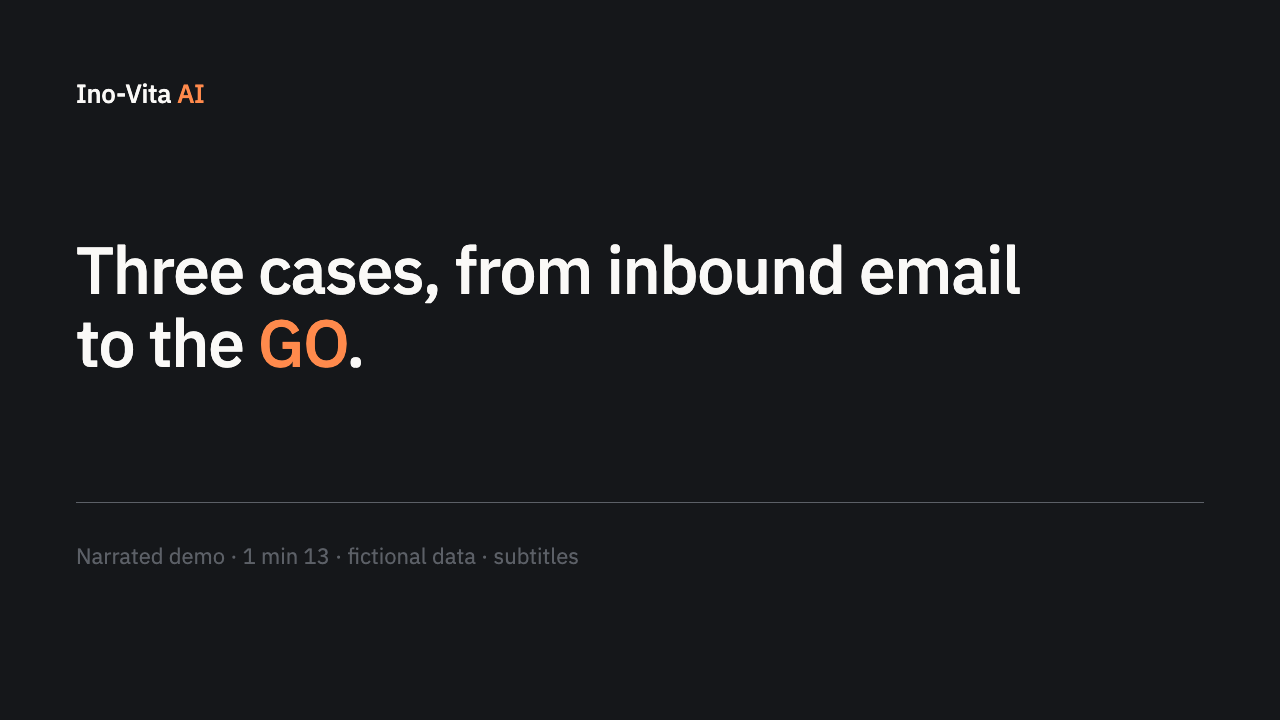
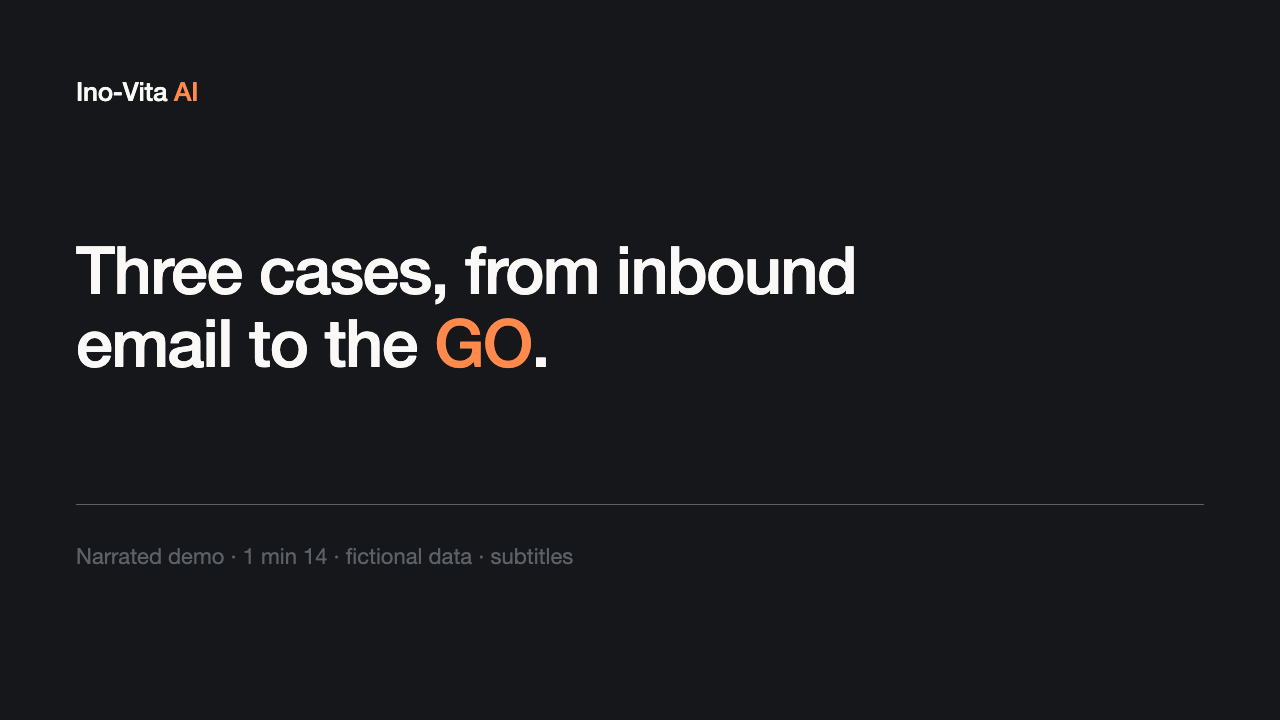
Video en premier sur l'accueil FR et EN, plus balisage de partage
Accueil : la demo devient le premier element sous le <h1> (lecteur natif,
poster, preload=metadata, playsinline, sous-titres .vtt actifs par defaut,
controls). Les 3 cas chiffres gardent leurs chiffres et passent a une ligne
d'accroche; le cas 3 nomme desormais le total de 92 factures d'ou sortent les
38 / 3 / 1 / 50. Le lien « Un appel de 30 minutes » est ajoute au hero et au
bloc contact (mailto tant que le lien de prise de rendez-vous n'est pas
disponible). /demo et /en/demo restent en place comme page dediee.

Referencement : hreflang fr / en / x-default, canonical, meta descriptions
reecrites, og:video vers le MP4, og:image:alt, JSON-LD Organization +
VideoObject (name, description, thumbnailUrl, uploadDate 2026-09-03, duration
PT1M11S / PT1M14S, contentUrl, embedUrl), sitemap lastmod 2026-09-10.

Duree anglaise corrigee de « 1 min 13 » a « 1 min 14 » : la piste mesure
73,84 s, arrondie a la seconde la plus proche comme le FR (71,32 s = 1 min 11).
Le poster anglais est regenere avec la meme valeur.

Claude-Session: https://claude.ai/code/session_01AX8cs5YUmsBYwzm9ntfcYv

diff --git a/index.html b/index.html
@@ -4,31 +4,37 @@
 <meta charset="utf-8">
 <meta name="viewport" content="width=device-width, initial-scale=1">
 <title>Ino-Vita AI — agents IA gouvernés pour la construction</title>
-<meta name="description" content="Des agents IA qui lisent vos courriels, contrats, chantiers et comptes, préparent la décision, et s'arrêtent à votre GO.">
-<meta name="site-version" content="puriste-2026-09-03">
+<meta name="description" content="Des agents IA qui lisent vos courriels, contrats, chantiers et comptes, chiffrent la décision et s'arrêtent à votre GO. Démo commentée de 1 min 11.">
+<meta name="site-version" content="video-2026-09-10">
 <meta name="theme-color" content="#faf9f7" media="(prefers-color-scheme: light)">
 <meta name="theme-color" content="#0e1013" media="(prefers-color-scheme: dark)">
 <link rel="canonical" href="https://ino-vita.ai/">
-<link rel="alternate" hreflang="en" href="https://ino-vita.ai/en/">
 <link rel="alternate" hreflang="fr" href="https://ino-vita.ai/">
+<link rel="alternate" hreflang="en" href="https://ino-vita.ai/en/">
+<link rel="alternate" hreflang="x-default" href="https://ino-vita.ai/">
 <meta property="og:type" content="website">
 <meta property="og:site_name" content="Ino-Vita AI">
 <meta property="og:locale" content="fr_CA">
 <meta property="og:title" content="Ino-Vita AI — agents IA gouvernés pour la construction">
-<meta property="og:description" content="Des agents IA qui lisent vos courriels, contrats, chantiers et comptes, préparent la décision, et s'arrêtent à votre GO.">
+<meta property="og:description" content="Des agents IA qui lisent vos courriels, contrats, chantiers et comptes, chiffrent la décision et s'arrêtent à votre GO. Démo commentée de 1 min 11.">
 <meta property="og:url" content="https://ino-vita.ai/">
 <meta property="og:image" content="https://ino-vita.ai/og.png">
 <meta property="og:image:width" content="1200">
 <meta property="og:image:height" content="630">
+<meta property="og:image:alt" content="Ino-Vita AI">
+<meta property="og:video" content="https://ino-vita.ai/demo/video/demo-ino-vita-ai-v3-fr-2026-09-03.mp4">
+<meta property="og:video:secure_url" content="https://ino-vita.ai/demo/video/demo-ino-vita-ai-v3-fr-2026-09-03.mp4">
+<meta property="og:video:type" content="video/mp4">
+<meta property="og:video:width" content="1280">
+<meta property="og:video:height" content="720">
 <meta name="twitter:card" content="summary_large_image">
 <meta name="twitter:title" content="Ino-Vita AI — agents IA gouvernés pour la construction">
-<meta name="twitter:description" content="Des agents IA qui lisent vos courriels, contrats, chantiers et comptes, préparent la décision, et s'arrêtent à votre GO.">
+<meta name="twitter:description" content="Des agents IA qui lisent vos courriels, contrats, chantiers et comptes, chiffrent la décision et s'arrêtent à votre GO. Démo commentée de 1 min 11.">
 <meta name="twitter:image" content="https://ino-vita.ai/og.png">
 <link rel="icon" href="/favicon.svg" type="image/svg+xml">
-<link rel="preconnect" href="https://fonts.googleapis.com">
-<link rel="preconnect" href="https://fonts.gstatic.com" crossorigin>
-<link rel="stylesheet" href="https://fonts.googleapis.com/css2?family=IBM+Plex+Sans:wght@400;500&display=swap">
+<link rel="preload" href="/fonts/ibm-plex-sans-latin.woff2" as="font" type="font/woff2" crossorigin>
 <link rel="stylesheet" href="/style.css">
+<script type="application/ld+json">{"@context":"https://schema.org","@graph":[{"@type":"Organization","@id":"https://ino-vita.ai/#organization","name":"Ino-Vita AI","url":"https://ino-vita.ai/","logo":"https://ino-vita.ai/logo.svg","image":"https://ino-vita.ai/og.png","email":"ai@ino-vita.com","parentOrganization":{"@type":"Organization","name":"Groupe GIV"},"address":{"@type":"PostalAddress","addressLocality":"Montréal","addressRegion":"QC","addressCountry":"CA"},"areaServed":{"@type":"AdministrativeArea","name":"Québec, Canada"},"description":"Agents IA gouvernés pour entrepreneurs en construction, développés par Groupe GIV à Montréal."},{"@type":"VideoObject","@id":"https://ino-vita.ai/#video","name":"Démo Ino-Vita AI — trois cas, du courriel reçu jusqu'au GO","description":"Vidéo commentée de 1 min 11 : un extra contesté de 48 350 $, un décompte client de 412 600 $ et 92 factures fournisseurs, analysés jusqu'au GO humain. Données fictives.","thumbnailUrl":"https://ino-vita.ai/demo/poster-fr.png","uploadDate":"2026-09-03","duration":"PT1M11S","contentUrl":"https://ino-vita.ai/demo/video/demo-ino-vita-ai-v3-fr-2026-09-03.mp4","embedUrl":"https://ino-vita.ai/demo/","inLanguage":"fr-CA","isFamilyFriendly":true,"publisher":{"@id":"https://ino-vita.ai/#organization"}}]}</script>
 </head>
 <body>
 <a class="skip u" href="#main">Aller au contenu</a>
@@ -43,9 +49,19 @@
   <section class="hero">
     <div class="wrap stack-lg">
       <h1>Des agents IA qui lisent vos courriels, contrats, chantiers et comptes, préparent la décision, et s'arrêtent à votre <span class="accent">GO</span>.</h1>
+      <div class="player">
+        <video controls preload="metadata" playsinline width="1280" height="720"
+               poster="/demo/poster-fr.png" aria-label="Vidéo de démonstration Ino-Vita AI : trois cas, 1 minute 11, commentée, sous-titrée">
+          <source src="/demo/video/demo-ino-vita-ai-v3-fr-2026-09-03.mp4" type="video/mp4">
+          <source src="/demo/video/demo-ino-vita-ai-v3-fr-2026-09-03.webm" type="video/webm">
+          <track kind="subtitles" src="/demo/video/demo-ino-vita-ai-v3-fr-2026-09-03.vtt" srclang="fr" label="Français" default>
+          Votre navigateur ne lit pas la vidéo intégrée — <a class="u" href="/demo/video/demo-ino-vita-ai-v3-fr-2026-09-03.mp4">Télécharger la vidéo (MP4)</a>.
+        </video>
+      </div>
+      <p class="small muted measure">Démo de 1 min 11, avec son et sous-titres. Données fictives, aucun système réel connecté.</p>
       <p class="lede measure">Une couche d'agents par-dessus vos outils actuels. Chaque conclusion cite ses sources. Rien d'externe ni de financier ne part sans vous.</p>
       <p class="links">
-        <a class="u" href="/demo/">Voir la démo (1 min 11)</a>
+        <a class="u" href="mailto:ai@ino-vita.com?subject=Appel%20exploratoire%20%E2%80%94%20Ino-Vita%20AI">Un appel de 30 minutes</a>
         <a class="u" href="mailto:ai@ino-vita.com?subject=Appel%20exploratoire%20%E2%80%94%20Ino-Vita%20AI">ai@ino-vita.com</a>
       </p>
     </div>
@@ -64,7 +80,7 @@
           <div class="fig"><dt>Prouvé</dt><dd>6 720 $</dd></div>
           <div class="fig gap"><dt>Écart</dt><dd>−41 630 $</dd></div>
         </dl>
-        <p>Une directive de 11 200 $ déjà payée au décompte précédent, 3 cages d'escalier terminées sur 5, et 25 950 $ sans directive écrite — la clause du bon de commande est citée dans la réponse.</p>
+        <p>Une directive de 11 200 $ déjà payée au décompte précédent, 3 cages d'escalier sur 5, et 25 950 $ sans directive écrite.</p>
       </div>
       <div class="case">
         <h3>Décompte client</h3>
@@ -73,7 +89,7 @@
           <div class="fig"><dt>Prouvé</dt><dd>348 900 $</dd></div>
           <div class="fig gap"><dt>Écart</dt><dd>−63 700 $</dd></div>
         </dl>
-        <p>Céramique facturée à 100 %, posée à 62 % au relevé d'arpenteur. Une colonne « solde à exécuter » reportée comme exécutée. Des accessoires facturés, jamais livrés.</p>
+        <p>Céramique facturée à 100 %, posée à 62 % au relevé d'arpenteur, et une colonne « solde à exécuter » reportée comme exécutée.</p>
       </div>
       <div class="case">
         <h3>Concordance des paiements</h3>
@@ -82,7 +98,7 @@
           <div class="fig"><dt>Réellement dû</dt><dd>114 100 $</dd></div>
           <div class="fig gap"><dt>Écart</dt><dd>−546 900 $</dd></div>
         </dl>
-        <p>38 factures payées par le prêteur et jamais enregistrées, 3 doublons de saisie, 1 facture antidatée bloquée. Les écritures sont préparées en essai à blanc.</p>
+        <p>Sur 92 factures relancées : 38 déjà payées par le prêteur et jamais enregistrées, 3 doublons de saisie, 1 antidatée bloquée — 50 restent réellement dues.</p>
       </div>
       </div>
     </div>
@@ -123,6 +139,7 @@
       <h2 style="margin-top:14px">Un appel de 30 minutes, avec une vraie personne de construction.</h2>
       <p class="lede measure" style="margin-top:20px">On regarde votre premier flux à forte valeur, et on vous montre le système tourner. Sans engagement.</p>
       <p class="links" style="margin-top:28px">
+        <a class="u" href="mailto:ai@ino-vita.com?subject=Appel%20exploratoire%20%E2%80%94%20Ino-Vita%20AI">Un appel de 30 minutes</a>
         <a class="u" href="mailto:ai@ino-vita.com?subject=Appel%20exploratoire%20%E2%80%94%20Ino-Vita%20AI">ai@ino-vita.com</a>
         <a class="u" href="/demo/">Voir la démo (1 min 11)</a>
       </p>

diff --git a/en/index.html b/en/index.html
@@ -4,31 +4,37 @@
 <meta charset="utf-8">
 <meta name="viewport" content="width=device-width, initial-scale=1">
 <title>Ino-Vita AI — governed AI agents for construction</title>
-<meta name="description" content="AI agents that read your email, contracts, job sites and books, prepare the decision, and stop at your GO.">
-<meta name="site-version" content="puriste-2026-09-03">
+<meta name="description" content="AI agents that read your email, contracts, job sites and books, do the math on the decision, and stop at your GO. Narrated 1 min 14 demo.">
+<meta name="site-version" content="video-2026-09-10">
 <meta name="theme-color" content="#faf9f7" media="(prefers-color-scheme: light)">
 <meta name="theme-color" content="#0e1013" media="(prefers-color-scheme: dark)">
 <link rel="canonical" href="https://ino-vita.ai/en/">
 <link rel="alternate" hreflang="fr" href="https://ino-vita.ai/">
 <link rel="alternate" hreflang="en" href="https://ino-vita.ai/en/">
+<link rel="alternate" hreflang="x-default" href="https://ino-vita.ai/">
 <meta property="og:type" content="website">
 <meta property="og:site_name" content="Ino-Vita AI">
 <meta property="og:locale" content="en_CA">
 <meta property="og:title" content="Ino-Vita AI — governed AI agents for construction">
-<meta property="og:description" content="AI agents that read your email, contracts, job sites and books, prepare the decision, and stop at your GO.">
+<meta property="og:description" content="AI agents that read your email, contracts, job sites and books, do the math on the decision, and stop at your GO. Narrated 1 min 14 demo.">
 <meta property="og:url" content="https://ino-vita.ai/en/">
 <meta property="og:image" content="https://ino-vita.ai/og.png">
 <meta property="og:image:width" content="1200">
 <meta property="og:image:height" content="630">
+<meta property="og:image:alt" content="Ino-Vita AI">
+<meta property="og:video" content="https://ino-vita.ai/demo/video/demo-ino-vita-ai-v3-en-2026-09-03.mp4">
+<meta property="og:video:secure_url" content="https://ino-vita.ai/demo/video/demo-ino-vita-ai-v3-en-2026-09-03.mp4">
+<meta property="og:video:type" content="video/mp4">
+<meta property="og:video:width" content="1280">
+<meta property="og:video:height" content="720">
 <meta name="twitter:card" content="summary_large_image">
 <meta name="twitter:title" content="Ino-Vita AI — governed AI agents for construction">
-<meta name="twitter:description" content="AI agents that read your email, contracts, job sites and books, prepare the decision, and stop at your GO.">
+<meta name="twitter:description" content="AI agents that read your email, contracts, job sites and books, do the math on the decision, and stop at your GO. Narrated 1 min 14 demo.">
 <meta name="twitter:image" content="https://ino-vita.ai/og.png">
 <link rel="icon" href="/favicon.svg" type="image/svg+xml">
-<link rel="preconnect" href="https://fonts.googleapis.com">
-<link rel="preconnect" href="https://fonts.gstatic.com" crossorigin>
-<link rel="stylesheet" href="https://fonts.googleapis.com/css2?family=IBM+Plex+Sans:wght@400;500&display=swap">
+<link rel="preload" href="/fonts/ibm-plex-sans-latin.woff2" as="font" type="font/woff2" crossorigin>
 <link rel="stylesheet" href="/style.css">
+<script type="application/ld+json">{"@context":"https://schema.org","@graph":[{"@type":"Organization","@id":"https://ino-vita.ai/#organization","name":"Ino-Vita AI","url":"https://ino-vita.ai/","logo":"https://ino-vita.ai/logo.svg","image":"https://ino-vita.ai/og.png","email":"ai@ino-vita.com","parentOrganization":{"@type":"Organization","name":"Groupe GIV"},"address":{"@type":"PostalAddress","addressLocality":"Montréal","addressRegion":"QC","addressCountry":"CA"},"areaServed":{"@type":"AdministrativeArea","name":"Québec, Canada"},"description":"Governed AI agents for construction contractors, built by Groupe GIV in Montréal."},{"@type":"VideoObject","@id":"https://ino-vita.ai/en/#video","name":"Ino-Vita AI demo — three cases, from inbox to GO","description":"A narrated 1 min 14 video: a $48,350 disputed change order, a $412,600 client progress claim and 92 supplier invoices, analysed all the way to the human GO. Fictional data.","thumbnailUrl":"https://ino-vita.ai/demo/poster-en.png","uploadDate":"2026-09-03","duration":"PT1M14S","contentUrl":"https://ino-vita.ai/demo/video/demo-ino-vita-ai-v3-en-2026-09-03.mp4","embedUrl":"https://ino-vita.ai/en/demo/","inLanguage":"en-CA","isFamilyFriendly":true,"publisher":{"@id":"https://ino-vita.ai/#organization"}}]}</script>
 </head>
 <body>
 <a class="skip u" href="#main">Skip to content</a>
@@ -43,9 +49,19 @@
   <section class="hero">
     <div class="wrap stack-lg">
       <h1>AI agents that read your email, contracts, job sites and books, prepare the decision, and stop at your <span class="accent">GO</span>.</h1>
+      <div class="player">
+        <video controls preload="metadata" playsinline width="1280" height="720"
+               poster="/demo/poster-en.png" aria-label="Ino-Vita AI demo video: three cases, 1 minute 14, narrated, subtitled">
+          <source src="/demo/video/demo-ino-vita-ai-v3-en-2026-09-03.mp4" type="video/mp4">
+          <source src="/demo/video/demo-ino-vita-ai-v3-en-2026-09-03.webm" type="video/webm">
+          <track kind="subtitles" src="/demo/video/demo-ino-vita-ai-v3-en-2026-09-03.vtt" srclang="en" label="English" default>
+          Your browser cannot play the embedded video — <a class="u" href="/demo/video/demo-ino-vita-ai-v3-en-2026-09-03.mp4">Download the video (MP4)</a>.
+        </video>
+      </div>
+      <p class="small muted measure">A 1 min 14 demo, with sound and subtitles. Fictional data, no real system connected.</p>
       <p class="lede measure">An agent layer on top of the tools you already use. Every conclusion cites its sources. Nothing external or financial goes out without you.</p>
       <p class="links">
-        <a class="u" href="/en/demo/">Watch the demo (1 min 13)</a>
+        <a class="u" href="mailto:ai@ino-vita.com?subject=Intro%20call%20%E2%80%94%20Ino-Vita%20AI">A 30-minute call</a>
         <a class="u" href="mailto:ai@ino-vita.com?subject=Intro%20call%20%E2%80%94%20Ino-Vita%20AI">ai@ino-vita.com</a>
       </p>
     </div>
@@ -64,7 +80,7 @@
           <div class="fig"><dt>Proven</dt><dd>$6,720</dd></div>
           <div class="fig gap"><dt>Gap</dt><dd>−$41,630</dd></div>
         </dl>
-        <p>An $11,200 directive already paid on the previous progress claim, 3 stairwells finished out of 5, and $25,950 with no written directive — the purchase-order clause is quoted in the reply.</p>
+        <p>An $11,200 directive already paid on the previous progress claim, 3 stairwells out of 5, and $25,950 with no written directive.</p>
       </div>
       <div class="case">
         <h3>Client progress claim</h3>
@@ -73,7 +89,7 @@
           <div class="fig"><dt>Proven</dt><dd>$348,900</dd></div>
           <div class="fig gap"><dt>Gap</dt><dd>−$63,700</dd></div>
         </dl>
-        <p>Tile billed at 100%, installed at 62% per the surveyor's take-off. A “balance to complete” column carried over as completed. Accessories billed, never delivered.</p>
+        <p>Tile billed at 100%, installed at 62% per the surveyor's take-off, and a “balance to complete” column carried over as completed.</p>
       </div>
       <div class="case">
         <h3>Payables reconciliation</h3>
@@ -82,7 +98,7 @@
           <div class="fig"><dt>Actually due</dt><dd>$114,100</dd></div>
           <div class="fig gap"><dt>Gap</dt><dd>−$546,900</dd></div>
         </dl>
-        <p>38 invoices paid by the lender and never recorded, 3 duplicate entries, 1 back-dated invoice blocked. The journal entries are prepared as a dry run.</p>
+        <p>Out of 92 chased invoices: 38 already paid by the lender and never recorded, 3 duplicate entries, 1 back-dated one blocked — 50 are genuinely due.</p>
       </div>
       </div>
     </div>
@@ -123,8 +139,9 @@
       <h2 style="margin-top:14px">A 30-minute call, with an actual construction person.</h2>
       <p class="lede measure" style="margin-top:20px">We look at your first high-value workflow, and we show you the system running. No commitment.</p>
       <p class="links" style="margin-top:28px">
+        <a class="u" href="mailto:ai@ino-vita.com?subject=Intro%20call%20%E2%80%94%20Ino-Vita%20AI">A 30-minute call</a>
         <a class="u" href="mailto:ai@ino-vita.com?subject=Intro%20call%20%E2%80%94%20Ino-Vita%20AI">ai@ino-vita.com</a>
-        <a class="u" href="/en/demo/">Watch the demo (1 min 13)</a>
+        <a class="u" href="/en/demo/">Watch the demo (1 min 14)</a>
       </p>
     </div>
   </section>

diff --git a/en/demo/index.html b/en/demo/index.html
@@ -3,32 +3,38 @@
 <head>
 <meta charset="utf-8">
 <meta name="viewport" content="width=device-width, initial-scale=1">
-<title>Demo (1 min 13) — Ino-Vita AI</title>
-<meta name="description" content="Three cases, fictional data: a $48,350 disputed change order, a $412,600 client progress claim, 92 supplier invoices. Narrated 1 min 13 video, with subtitles.">
-<meta name="site-version" content="puriste-2026-09-03">
+<title>Demo (1 min 14) — Ino-Vita AI</title>
+<meta name="description" content="Three cases, fictional data: a $48,350 disputed change order, a $412,600 client progress claim, 92 supplier invoices. Narrated 1 min 14 video.">
+<meta name="site-version" content="video-2026-09-10">
 <meta name="theme-color" content="#faf9f7" media="(prefers-color-scheme: light)">
 <meta name="theme-color" content="#0e1013" media="(prefers-color-scheme: dark)">
 <link rel="canonical" href="https://ino-vita.ai/en/demo/">
 <link rel="alternate" hreflang="fr" href="https://ino-vita.ai/demo/">
 <link rel="alternate" hreflang="en" href="https://ino-vita.ai/en/demo/">
+<link rel="alternate" hreflang="x-default" href="https://ino-vita.ai/demo/">
 <meta property="og:type" content="website">
 <meta property="og:site_name" content="Ino-Vita AI">
 <meta property="og:locale" content="en_CA">
-<meta property="og:title" content="Demo (1 min 13) — Ino-Vita AI">
-<meta property="og:description" content="Three cases, fictional data: a $48,350 disputed change order, a $412,600 client progress claim, 92 supplier invoices. Narrated 1 min 13 video, with subtitles.">
+<meta property="og:title" content="Demo (1 min 14) — Ino-Vita AI">
+<meta property="og:description" content="Three cases, fictional data: a $48,350 disputed change order, a $412,600 client progress claim, 92 supplier invoices. Narrated 1 min 14 video.">
 <meta property="og:url" content="https://ino-vita.ai/en/demo/">
 <meta property="og:image" content="https://ino-vita.ai/og.png">
 <meta property="og:image:width" content="1200">
 <meta property="og:image:height" content="630">
+<meta property="og:image:alt" content="Ino-Vita AI">
+<meta property="og:video" content="https://ino-vita.ai/demo/video/demo-ino-vita-ai-v3-en-2026-09-03.mp4">
+<meta property="og:video:secure_url" content="https://ino-vita.ai/demo/video/demo-ino-vita-ai-v3-en-2026-09-03.mp4">
+<meta property="og:video:type" content="video/mp4">
+<meta property="og:video:width" content="1280">
+<meta property="og:video:height" content="720">
 <meta name="twitter:card" content="summary_large_image">
-<meta name="twitter:title" content="Demo (1 min 13) — Ino-Vita AI">
-<meta name="twitter:description" content="Three cases, fictional data: a $48,350 disputed change order, a $412,600 client progress claim, 92 supplier invoices. Narrated 1 min 13 video, with subtitles.">
+<meta name="twitter:title" content="Demo (1 min 14) — Ino-Vita AI">
+<meta name="twitter:description" content="Three cases, fictional data: a $48,350 disputed change order, a $412,600 client progress claim, 92 supplier invoices. Narrated 1 min 14 video.">
 <meta name="twitter:image" content="https://ino-vita.ai/og.png">
 <link rel="icon" href="/favicon.svg" type="image/svg+xml">
-<link rel="preconnect" href="https://fonts.googleapis.com">
-<link rel="preconnect" href="https://fonts.gstatic.com" crossorigin>
-<link rel="stylesheet" href="https://fonts.googleapis.com/css2?family=IBM+Plex+Sans:wght@400;500&display=swap">
+<link rel="preload" href="/fonts/ibm-plex-sans-latin.woff2" as="font" type="font/woff2" crossorigin>
 <link rel="stylesheet" href="/style.css">
+<script type="application/ld+json">{"@context":"https://schema.org","@graph":[{"@type":"Organization","@id":"https://ino-vita.ai/#organization","name":"Ino-Vita AI","url":"https://ino-vita.ai/","logo":"https://ino-vita.ai/logo.svg","image":"https://ino-vita.ai/og.png","email":"ai@ino-vita.com","parentOrganization":{"@type":"Organization","name":"Groupe GIV"},"address":{"@type":"PostalAddress","addressLocality":"Montréal","addressRegion":"QC","addressCountry":"CA"},"areaServed":{"@type":"AdministrativeArea","name":"Québec, Canada"},"description":"Governed AI agents for construction contractors, built by Groupe GIV in Montréal."},{"@type":"VideoObject","@id":"https://ino-vita.ai/en/demo/#video","name":"Ino-Vita AI demo — three cases, from inbox to GO","description":"A narrated 1 min 14 video: a $48,350 disputed change order, a $412,600 client progress claim and 92 supplier invoices, analysed all the way to the human GO. Fictional data.","thumbnailUrl":"https://ino-vita.ai/demo/poster-en.png","uploadDate":"2026-09-03","duration":"PT1M14S","contentUrl":"https://ino-vita.ai/demo/video/demo-ino-vita-ai-v3-en-2026-09-03.mp4","embedUrl":"https://ino-vita.ai/en/demo/","inLanguage":"en-CA","isFamilyFriendly":true,"publisher":{"@id":"https://ino-vita.ai/#organization"}}]}</script>
 </head>
 <body>
 <a class="skip u" href="#main">Skip to content</a>
@@ -41,21 +47,22 @@
 <main id="main">
   <section class="hero" style="padding-bottom:0">
     <div class="wrap stack">
-      <p class="label">Demo · 1 min 13 · with sound</p>
-      <h1 style="font-size:clamp(26px,4.2vw,40px);max-width:26ch">Three cases, from inbound email to the <span class="accent">GO</span>.</h1>
-      <p class="lede measure">A $48,350 disputed change order, a $412,600 client progress claim, and 92 supplier invoices that look unpaid. Fictional data, no live system connected. Subtitles in the player.</p>
+      <p class="label">Demo · 1 min 14 · with sound</p>
+      <h1 style="font-size:clamp(26px,4.2vw,40px);max-width:26ch">Three cases, from the inbox to the <span class="accent">GO</span>.</h1>
+      <p class="lede measure">A $48,350 disputed change order, a $412,600 client progress claim, and 92 supplier invoices that look unpaid. Fictional data, no real system connected. Subtitles in the player.</p>
     </div>
   </section>
   <section style="border-top:0;padding-top:36px">
     <div class="wrap">
-      <video controls preload="metadata" playsinline
-             poster="/demo/poster-en.png"
-             aria-label="Ino-Vita AI demo video, three cases, 1 minute 14, narrated">
+    <div class="player">
+      <video controls preload="metadata" playsinline width="1280" height="720"
+             poster="/demo/poster-en.png" aria-label="Ino-Vita AI demo video: three cases, 1 minute 14, narrated, subtitled">
         <source src="/demo/video/demo-ino-vita-ai-v3-en-2026-09-03.mp4" type="video/mp4">
         <source src="/demo/video/demo-ino-vita-ai-v3-en-2026-09-03.webm" type="video/webm">
         <track kind="subtitles" src="/demo/video/demo-ino-vita-ai-v3-en-2026-09-03.vtt" srclang="en" label="English" default>
-        Your browser cannot play embedded video — <a class="u" href="/demo/video/demo-ino-vita-ai-v3-en-2026-09-03.mp4">Download the video (MP4)</a>.
+        Your browser cannot play the embedded video — <a class="u" href="/demo/video/demo-ino-vita-ai-v3-en-2026-09-03.mp4">Download the video (MP4)</a>.
       </video>
+    </div>
       <p class="links" style="margin-top:28px">
         <a class="u" href="/en/">Back to home</a>
         <a class="u" href="mailto:ai@ino-vita.com?subject=Intro%20call%20%E2%80%94%20Ino-Vita%20AI">ai@ino-vita.com</a>

diff --git a/demo/index.html b/demo/index.html
@@ -4,31 +4,37 @@
 <meta charset="utf-8">
 <meta name="viewport" content="width=device-width, initial-scale=1">
 <title>Démo (1 min 11) — Ino-Vita AI</title>
-<meta name="description" content="Trois cas, données fictives : un extra contesté de 48 350 $, un décompte client de 412 600 $, 92 factures fournisseurs. Vidéo commentée de 1 min 11, avec sous-titres.">
-<meta name="site-version" content="puriste-2026-09-03">
+<meta name="description" content="Trois cas, données fictives : un extra contesté de 48 350 $, un décompte client de 412 600 $, 92 factures fournisseurs. Vidéo commentée de 1 min 11.">
+<meta name="site-version" content="video-2026-09-10">
 <meta name="theme-color" content="#faf9f7" media="(prefers-color-scheme: light)">
 <meta name="theme-color" content="#0e1013" media="(prefers-color-scheme: dark)">
 <link rel="canonical" href="https://ino-vita.ai/demo/">
-<link rel="alternate" hreflang="en" href="https://ino-vita.ai/en/demo/">
 <link rel="alternate" hreflang="fr" href="https://ino-vita.ai/demo/">
+<link rel="alternate" hreflang="en" href="https://ino-vita.ai/en/demo/">
+<link rel="alternate" hreflang="x-default" href="https://ino-vita.ai/demo/">
 <meta property="og:type" content="website">
 <meta property="og:site_name" content="Ino-Vita AI">
 <meta property="og:locale" content="fr_CA">
 <meta property="og:title" content="Démo (1 min 11) — Ino-Vita AI">
-<meta property="og:description" content="Trois cas, données fictives : un extra contesté de 48 350 $, un décompte client de 412 600 $, 92 factures fournisseurs. Vidéo commentée de 1 min 11, avec sous-titres.">
+<meta property="og:description" content="Trois cas, données fictives : un extra contesté de 48 350 $, un décompte client de 412 600 $, 92 factures fournisseurs. Vidéo commentée de 1 min 11.">
 <meta property="og:url" content="https://ino-vita.ai/demo/">
 <meta property="og:image" content="https://ino-vita.ai/og.png">
 <meta property="og:image:width" content="1200">
 <meta property="og:image:height" content="630">
+<meta property="og:image:alt" content="Ino-Vita AI">
+<meta property="og:video" content="https://ino-vita.ai/demo/video/demo-ino-vita-ai-v3-fr-2026-09-03.mp4">
+<meta property="og:video:secure_url" content="https://ino-vita.ai/demo/video/demo-ino-vita-ai-v3-fr-2026-09-03.mp4">
+<meta property="og:video:type" content="video/mp4">
+<meta property="og:video:width" content="1280">
+<meta property="og:video:height" content="720">
 <meta name="twitter:card" content="summary_large_image">
 <meta name="twitter:title" content="Démo (1 min 11) — Ino-Vita AI">
-<meta name="twitter:description" content="Trois cas, données fictives : un extra contesté de 48 350 $, un décompte client de 412 600 $, 92 factures fournisseurs. Vidéo commentée de 1 min 11, avec sous-titres.">
+<meta name="twitter:description" content="Trois cas, données fictives : un extra contesté de 48 350 $, un décompte client de 412 600 $, 92 factures fournisseurs. Vidéo commentée de 1 min 11.">
 <meta name="twitter:image" content="https://ino-vita.ai/og.png">
 <link rel="icon" href="/favicon.svg" type="image/svg+xml">
-<link rel="preconnect" href="https://fonts.googleapis.com">
-<link rel="preconnect" href="https://fonts.gstatic.com" crossorigin>
-<link rel="stylesheet" href="https://fonts.googleapis.com/css2?family=IBM+Plex+Sans:wght@400;500&display=swap">
+<link rel="preload" href="/fonts/ibm-plex-sans-latin.woff2" as="font" type="font/woff2" crossorigin>
 <link rel="stylesheet" href="/style.css">
+<script type="application/ld+json">{"@context":"https://schema.org","@graph":[{"@type":"Organization","@id":"https://ino-vita.ai/#organization","name":"Ino-Vita AI","url":"https://ino-vita.ai/","logo":"https://ino-vita.ai/logo.svg","image":"https://ino-vita.ai/og.png","email":"ai@ino-vita.com","parentOrganization":{"@type":"Organization","name":"Groupe GIV"},"address":{"@type":"PostalAddress","addressLocality":"Montréal","addressRegion":"QC","addressCountry":"CA"},"areaServed":{"@type":"AdministrativeArea","name":"Québec, Canada"},"description":"Agents IA gouvernés pour entrepreneurs en construction, développés par Groupe GIV à Montréal."},{"@type":"VideoObject","@id":"https://ino-vita.ai/demo/#video","name":"Démo Ino-Vita AI — trois cas, du courriel reçu jusqu'au GO","description":"Vidéo commentée de 1 min 11 : un extra contesté de 48 350 $, un décompte client de 412 600 $ et 92 factures fournisseurs, analysés jusqu'au GO humain. Données fictives.","thumbnailUrl":"https://ino-vita.ai/demo/poster-fr.png","uploadDate":"2026-09-03","duration":"PT1M11S","contentUrl":"https://ino-vita.ai/demo/video/demo-ino-vita-ai-v3-fr-2026-09-03.mp4","embedUrl":"https://ino-vita.ai/demo/","inLanguage":"fr-CA","isFamilyFriendly":true,"publisher":{"@id":"https://ino-vita.ai/#organization"}}]}</script>
 </head>
 <body>
 <a class="skip u" href="#main">Aller au contenu</a>
@@ -48,14 +54,15 @@
   </section>
   <section style="border-top:0;padding-top:36px">
     <div class="wrap">
-      <video controls preload="metadata" playsinline
-             poster="/demo/poster-fr.png"
-             aria-label="Vidéo de démonstration Ino-Vita AI, trois cas, 1 minute 11, commentée">
+    <div class="player">
+      <video controls preload="metadata" playsinline width="1280" height="720"
+             poster="/demo/poster-fr.png" aria-label="Vidéo de démonstration Ino-Vita AI : trois cas, 1 minute 11, commentée, sous-titrée">
         <source src="/demo/video/demo-ino-vita-ai-v3-fr-2026-09-03.mp4" type="video/mp4">
         <source src="/demo/video/demo-ino-vita-ai-v3-fr-2026-09-03.webm" type="video/webm">
         <track kind="subtitles" src="/demo/video/demo-ino-vita-ai-v3-fr-2026-09-03.vtt" srclang="fr" label="Français" default>
         Votre navigateur ne lit pas la vidéo intégrée — <a class="u" href="/demo/video/demo-ino-vita-ai-v3-fr-2026-09-03.mp4">Télécharger la vidéo (MP4)</a>.
       </video>
+    </div>
       <p class="links" style="margin-top:28px">
         <a class="u" href="/">Retour à l'accueil</a>
         <a class="u" href="mailto:ai@ino-vita.com?subject=Appel%20exploratoire%20%E2%80%94%20Ino-Vita%20AI">ai@ino-vita.com</a>
